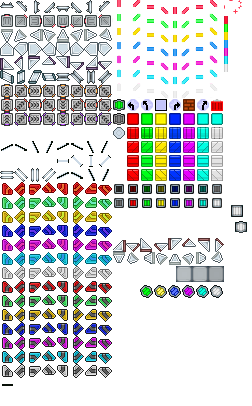
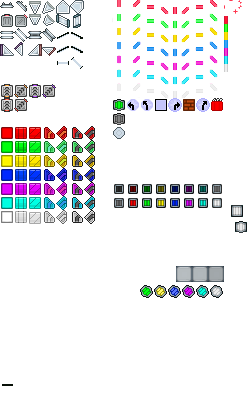
improving drawing alorightm to reduce graphic tiles and simplify management

Changed region(s): [[0.0, 0.0, 0.8889, 0.9458], [0.5, 0.2365, 0.8889, 0.4433]]

diff --git a/src/sdl/view_level.cpp b/src/sdl/view_level.cpp
@@ -53,52 +53,89 @@ void LevelView::activate()
 
 }
 
-SDL_Rect LevelView::rectForPiece(const Piece* piece)
+struct PieceGfx
+{
+  enum class Mode
+  {
+    NEVER_ROTATES, HAS_HALF_ROTATION
+  };
+  
+  SDL_Rect rect;
+  int rotation;
+
+  PieceGfx(const Piece* piece, Mode mode, int x, int y) : rect({ x * ui::PIECE_SIZE, y * ui::PIECE_SIZE, ui::PIECE_SIZE, ui::PIECE_SIZE })
+  {
+    constexpr bool forceRotations = true;
+    
+    switch (mode) {
+      case Mode::NEVER_ROTATES: rotation = 0; break;
+      case Mode::HAS_HALF_ROTATION:
+      {
+        if (forceRotations)
+          rotation = piece->orientation();
+        else
+        {
+          if (!isOrtho(piece->orientation())) rect.x += ui::PIECE_SIZE;
+          rotation = (piece->orientation() / 2) * 2;
+        }
+
+        break;
+      }
+    }
+  }
+
+
+  PieceGfx(int x, int y, int angle) : rect({ x * ui::PIECE_SIZE, y * ui::PIECE_SIZE, ui::PIECE_SIZE, ui::PIECE_SIZE }), rotation(angle) { }
+  PieceGfx(int x, int y) : PieceGfx(x, y, 0) { }
+};
+
+PieceGfx LevelView::gfxForPiece(const Piece* piece)
 {
   Position gfx = Position(0,0);
+  int angle = piece->orientation();
+
   int color = piece->color();
   int orientaton = piece->orientation();
-  
+  const Direction o = piece->orientation();
+ 
   switch (piece->type())
   {
-    case PIECE_WALL: gfx = Position(13,7); break;
-    case PIECE_GLASS: gfx = Position(11,7); break;
+  case PIECE_WALL: return PieceGfx(13, 7);
+  case PIECE_GLASS: return PieceGfx(11, 7);
     
-    case PIECE_SOURCE: gfx = Position(orientaton, 1); break;
+  case PIECE_SOURCE: return PieceGfx(piece, PieceGfx::Mode::HAS_HALF_ROTATION, 0, 1);
+  case PIECE_MIRROR: return PieceGfx(piece, PieceGfx::Mode::HAS_HALF_ROTATION, 0, 0);
 
-    case PIECE_MIRROR: gfx = Position(orientaton, 0); break;
-    case PIECE_SKEW_MIRROR: gfx = Position(orientaton, 10); break;
-    case PIECE_DOUBLE_MIRROR: gfx = Position(orientaton % 4 + 4, 5); break;
-    case PIECE_DOUBLE_SPLITTER_MIRROR: gfx = Position(orientaton % 4 + 4, 11); break;
-    case PIECE_DOUBLE_PASS_MIRROR: gfx = Position(orientaton % 4, 12); break;
-    case PIECE_DOUBLE_SKEW_MIRROR: gfx = Position(orientaton % 4 + 4, 12); break;
-    case PIECE_REFRACTOR: gfx = Position(orientaton % 4, 5); break;
+    case PIECE_SKEW_MIRROR: return PieceGfx(piece, PieceGfx::Mode::HAS_HALF_ROTATION, 4, 2);
+    case PIECE_DOUBLE_MIRROR: return PieceGfx(piece, PieceGfx::Mode::HAS_HALF_ROTATION, 2, 2);
+    case PIECE_DOUBLE_SPLITTER_MIRROR: return PieceGfx(piece, PieceGfx::Mode::HAS_HALF_ROTATION, 4, 4);
+    case PIECE_DOUBLE_PASS_MIRROR: return PieceGfx(piece, PieceGfx::Mode::HAS_HALF_ROTATION, 0, 2);
+    case PIECE_DOUBLE_SKEW_MIRROR: return PieceGfx(piece, PieceGfx::Mode::HAS_HALF_ROTATION, 4, 3);
+    case PIECE_REFRACTOR: return PieceGfx(piece, PieceGfx::Mode::HAS_HALF_ROTATION, 4, 1);
 
-    case PIECE_SPLITTER: gfx = Position(orientaton, 2); break;
-    case PIECE_ANGLED_SPLITTER: gfx = Position(orientaton, 3); break;
-    case PIECE_THREE_WAY_SPLITTER: gfx = Position(orientaton + 8, 18); break;
+    case PIECE_SPLITTER: return PieceGfx(piece, PieceGfx::Mode::HAS_HALF_ROTATION, 2, 0);
+    case PIECE_ANGLED_SPLITTER: return PieceGfx(piece, PieceGfx::Mode::HAS_HALF_ROTATION, 4, 0);
+    case PIECE_THREE_WAY_SPLITTER: return PieceGfx(piece, PieceGfx::Mode::HAS_HALF_ROTATION, 2, 1);
     case PIECE_STAR_SPLITTER: gfx = Position(8, 9); break;
-    case PIECE_PRISM: gfx = Position(orientaton, 4); break;
-    case PIECE_FLIPPED_PRISM: gfx = Position(orientaton + 8, 17); break;
+    case PIECE_PRISM: return PieceGfx(piece, PieceGfx::Mode::HAS_HALF_ROTATION, 0, 3);
+    case PIECE_FLIPPED_PRISM: return PieceGfx(piece, PieceGfx::Mode::HAS_HALF_ROTATION, 2, 3);
 
-    case PIECE_FILTER: gfx = Position(color + 8, 8); break;
+    case PIECE_FILTER: return PieceGfx(0, 8 + color);
     case PIECE_ROUND_FILTER: gfx = Position(orientaton % 4, 9); break;
-    case PIECE_POLARIZER: gfx = Position(color + 8, orientaton % 4 + 9); break;
-    case PIECE_TUNNEL: gfx = Position(orientaton, 7); break;
+    case PIECE_POLARIZER: return PieceGfx(piece, PieceGfx::Mode::HAS_HALF_ROTATION, 1, 8 + color);
+    case PIECE_TUNNEL: return PieceGfx(piece, PieceGfx::Mode::HAS_HALF_ROTATION, 0, 7);
 
     case PIECE_RIGHT_BENDER: gfx = Position(14, 7); break;
     case PIECE_RIGHT_TWISTER: gfx = Position(12, 7); break;
     case PIECE_LEFT_BENDER: gfx = Position(10, 7); break;
     case PIECE_LEFT_TWISTER: gfx = Position(9, 7); break;
 
-    case PIECE_SELECTOR: gfx = Position(orientaton, 12 + color); break;
-    case PIECE_SPLICER: gfx = Position(orientaton, 12 + 7 + color); break;
-    case PIECE_COLOR_SHIFTER: gfx = Position(orientaton, 8); break;
-    case PIECE_COLOR_INVERTER: gfx = Position(orientaton, 6); break;
+    case PIECE_SELECTOR: return PieceGfx(piece, PieceGfx::Mode::HAS_HALF_ROTATION, 3, 8 + color);
+    case PIECE_SPLICER: return PieceGfx(piece, PieceGfx::Mode::HAS_HALF_ROTATION, 5, 8 + color);
+    case PIECE_COLOR_SHIFTER: return PieceGfx(piece, PieceGfx::Mode::HAS_HALF_ROTATION, 2, 6);
+    case PIECE_COLOR_INVERTER: return PieceGfx(piece, PieceGfx::Mode::HAS_HALF_ROTATION, 0, 6);
 
     case PIECE_TNT: gfx = Position(15, 7); break;
-
-
 
     case PIECE_CROSS_COLOR_INVERTER: gfx = Position(orientaton % 2 + 4, 9); break;
     case PIECE_TELEPORTER: gfx = Position(9, 7); break;
@@ -110,17 +147,17 @@ SDL_Rect LevelView::rectForPiece(const Piece* piece)
       assert(false);
   }
   
-  return { gfx.x*ui::PIECE_SIZE, gfx.y*ui::PIECE_SIZE, ui::PIECE_SIZE, ui::PIECE_SIZE };
+  return PieceGfx(gfx.x, gfx.y, piece->orientation());
 }
 
 void LevelView::drawPiece(const Piece* piece, int cx, int cy)
 {
-  SDL_Rect src = rectForPiece(piece);
+  PieceGfx src = gfxForPiece(piece);
   SDL_Rect dst = Gfx::ccr(cx + 1, cy + 1, ui::PIECE_SIZE, ui::PIECE_SIZE);
 
   //TODO: verify if this is fine and don't rotate for unrotable pieces
-  //SDL_RenderCopyEx(Gfx::renderer, Gfx::tiles, &src, &dst, piece->orientation() * (360.0 / 8), nullptr, SDL_FLIP_NONE);
-  Gfx::blit(Gfx::tiles, src, dst);
+  SDL_RenderCopyEx(Gfx::renderer, Gfx::tiles, &src.rect, &dst, src.rotation * (360.0 / 8), nullptr, SDL_FLIP_NONE);
+  //Gfx::blit(Gfx::tiles, src, dst);
 }
 
 void LevelView::drawField(const Field *field, int bx, int by)
@@ -156,8 +193,6 @@ void LevelView::drawField(const Field *field, int bx, int by)
         { 2, 4, 90, 8},
         { 3, 0, 135, 11},
       };
-      
-      
 
       SDL_SetTextureAlphaMod(Gfx::tiles, 160);
       SDL_SetTextureBlendMode(Gfx::tiles, SDL_BLENDMODE_BLEND);
@@ -189,9 +224,9 @@ void LevelView::drawInventory(const Field* field, int bx, int by)
       
       if (tile->piece())
       {
-        SDL_Rect src = rectForPiece(tile->piece().get());
+        PieceGfx src = gfxForPiece(tile->piece().get());
         SDL_Rect dst = Gfx::ccr(bx+ui::TILE_SIZE*x + 1, by + ui::TILE_SIZE*y + 1, ui::PIECE_SIZE, ui::PIECE_SIZE);
-        Gfx::blit(Gfx::tiles, src, dst);
+        Gfx::blit(Gfx::tiles, src.rect, dst);
       }
     }
 }
@@ -276,9 +311,9 @@ void LevelView::draw()
 
   // 245, 110
   
-  const int BASE_X = 80;
+  constexpr int BASE_X = 80;
   const int BASE_Y = GFX_FIELD_POS_X + field->height()*ui::TILE_SIZE + 20;
-  const int STEP = 14;
+  constexpr int STEP = 14;
   
   if (position == &iposition)
     Gfx::drawString(BASE_X, BASE_Y, true, "Y: to field");

diff --git a/src/core/pieces.h b/src/core/pieces.h
@@ -154,6 +154,7 @@ public:
   
   void rotateLeft() { rotation_ = rotation_ == NORTH ? NORTH_WEST : static_cast<Direction>(rotation_-1); }
   void rotateRight() { rotation_ = rotation_ == NORTH_WEST ? NORTH : static_cast<Direction>(rotation_+1); }
+  void setOrientation(Direction orientation) { rotation_ = orientation; }
   void setColor(LaserColor color) { color_ = color;  }
   
   virtual Laser produceLaser() const { 

diff --git a/src/sdl/view_level.h b/src/sdl/view_level.h
@@ -15,6 +15,7 @@ class View;
 
 struct SDL_Rect;
 struct SDL_Texture;
+struct PieceGfx;
 
 class LevelView : public View
 {
@@ -26,7 +27,7 @@ private:
   
   u16 coordX(const Position& p);
   u16 coordY(const Position& p);
-  static SDL_Rect rectForPiece(const Piece* piece);
+  static PieceGfx gfxForPiece(const Piece* piece);
   
   Field* field() { return game->field; }
   

diff --git a/src/files/aargon.h b/src/files/aargon.h
@@ -6,8 +6,7 @@
 //  Copyright (c) 2014 Jack. All rights reserved.
 //
 
-#ifndef _AARGON_H_
-#define _AARGON_H_
+#pragma once
 
 #include "common/common.h"
 
@@ -23,5 +22,3 @@ public:
   static LevelSpec parseLevel(const std::string& name);
   static std::vector<LevelPack> parseLevels();
 };
-
-#endif

diff --git a/src/core/pieces.cpp b/src/core/pieces.cpp
@@ -12,6 +12,7 @@
 
 #include <unordered_map>
 
+/* TODO: broken for flipped prism */
 static PieceMechanics::on_laser_receive_t prismMechanics(bool flipped) {
   return [flipped](Field* field, const Piece* piece, Laser& laser)
   {

diff --git a/src/common/common.h b/src/common/common.h
@@ -141,6 +141,8 @@ enum Direction
   NORTH_WEST
 };
 
+static bool isOrtho(Direction d) { return d % 2 == 0; }
+
 using Dir = Direction;
 
 #include <cassert>
